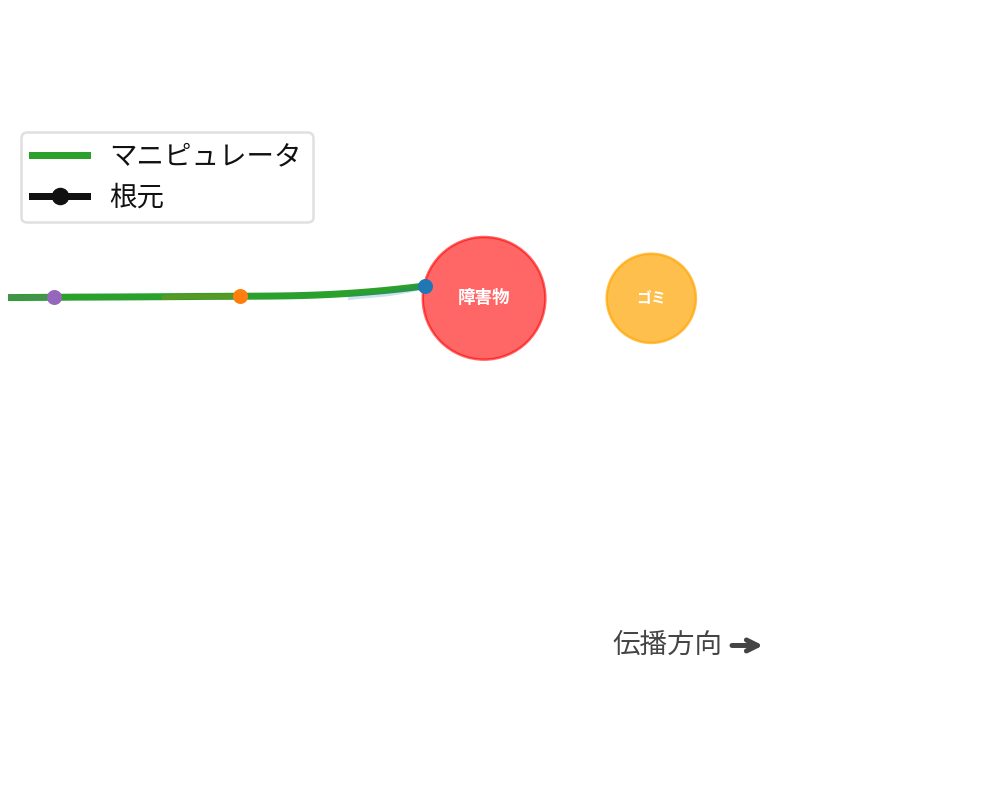
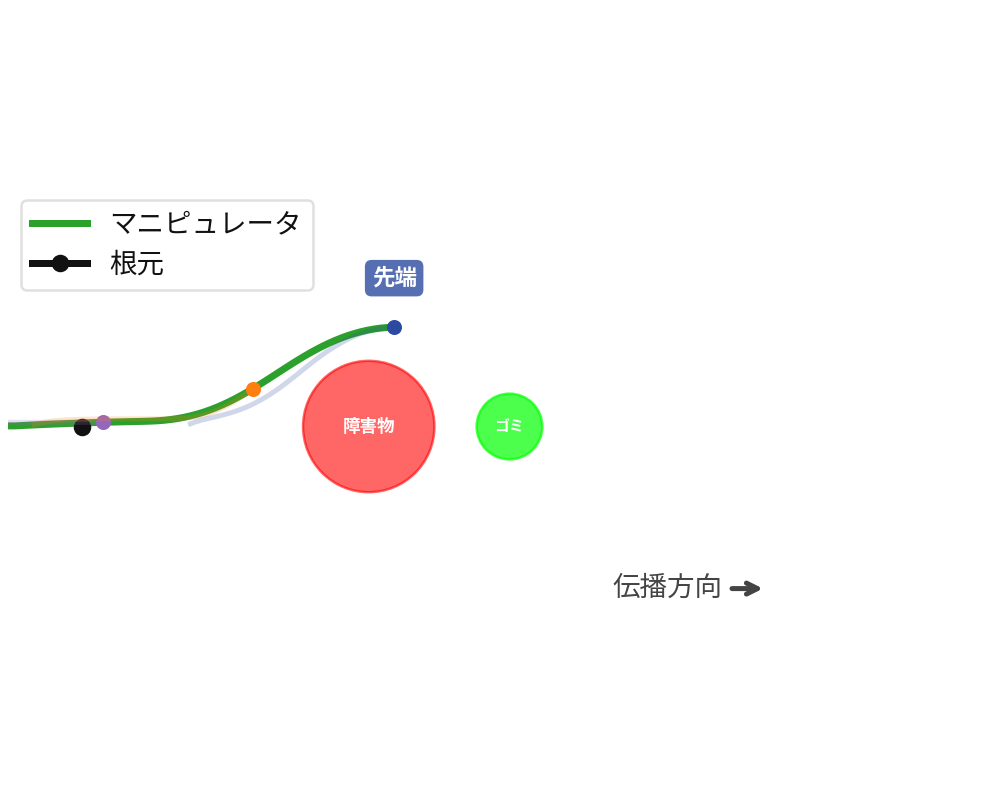
リーダーフォロワーの蛇波動シミュレーションを改善し、GIFアニメーションの先端注釈を追加。パラメータを調整して動作を最適化。

diff --git a/scripts/leader_follower/leader_follower_snake_wave.py b/scripts/leader_follower/leader_follower_snake_wave.py
@@ -34,27 +34,27 @@ class SimParams:
 
     # Leader input: tip bend angle (signed)
     # 蛇みたいな波状にするため、高周波数・小振幅
-    theta_amp: float = 0.2  # [rad] 波の振幅を少し大きく
-    theta_w: float = 2.0 * math.pi * 0.3  # 周波数を下げてより大きな波に
+    theta_amp: float = 0.6  # [rad] 先端の曲率を強くする
+    theta_w: float = 2.0 * math.pi * 0.45  # 高周波数で細かい波を作る
 
     # Propagation (tip -> base)
-    propagation_speed: float = 0.7  # 伝播速度を少し遅く
-    time_smoothing: float = 0.3  # より反応的に
-    space_smoothing: float = 0.08  # 滑らかな蛇のような曲線に
+    propagation_speed: float = 0.5  # 遅く -> 中腹が曲がった状態を保つ
+    time_smoothing: float = 0.25  # より反応的に
+    space_smoothing: float = 0.0  # より小さく -> 各セクションの曲率が大きくなる
 
     # Forward motion (entering from off-screen)
-    forward_speed: float = 0.3  # 前進速度を遅く
+    forward_speed: float = 0.4  # 前進速度
 
     # Obstacle
     obstacle_enabled: bool = True  # 障害物のオンオフ
-    obstacle_x: float = 0.7  # 障害物のx座標
+    obstacle_x: float = 0.9  # 障害物のx座標（より先に配置）
     obstacle_y: float = 0.0  # 障害物のy座標（少し下にズラして回避可能に）
-    obstacle_radius: float = 0.11  # 障害物の半径
+    obstacle_radius: float = 0.14  # 障害物の半径
 
     # Target (garbage)
-    target_x: float = 1.0  # ゴミのx座標（障害物の先）
+    target_x: float = 1.2  # ゴミのx座標（障害物の先）
     target_y: float = 0.0  # ゴミのy座標
-    target_radius: float = 0.08  # ゴミの半径
+    target_radius: float = 0.07  # ゴミの半径
 
     # Rendering
     fps: int = 20
@@ -206,7 +206,7 @@ def simulate(p: SimParams) -> dict[str, np.ndarray]:
         x, y = theta_to_backbone(theta_new, p)
 
         # Apply forward motion offset
-        t_current = (step - 60) * p.dt  # スタート位置をもっと左から（画面外から）
+        t_current = (step - 40) * p.dt
         offset = p.forward_speed * t_current * fwd_dir
         x = x + offset[0]
         y = y + offset[1]
@@ -296,7 +296,7 @@ def save_gif(traj: dict[str, np.ndarray], p: SimParams, out_path: Path) -> None:
     (body_line,) = ax.plot([], [], color="#2ca02c", label=("マニピュレータ" if p.use_japanese_labels else "Manipulator"))
     (base_dot,) = ax.plot([], [], marker="o", color="#111111", ms=6, label=("根元" if p.use_japanese_labels else "Base"))
 
-    palette = ["#111111", "#9467bd", "#ff7f0e", "#1f77b4", "#8c564b"]
+    palette = ["#111111", "#9467bd", "#ff7f0e", "#2c4ba0", "#8c564b"]  # 先端を緑色に変更
     marker_colors = palette[: len(marker_ids)]
     marker_dots = []
     marker_trails = []
@@ -320,6 +320,11 @@ def save_gif(traj: dict[str, np.ndarray], p: SimParams, out_path: Path) -> None:
             fontsize=11,
             color="#444444",
         )
+    
+    # Tip annotation (動的に更新)
+    tip_text = ax.text(0, 0, "先端", ha="center", va="bottom",
+                       fontsize=9, bbox=dict(boxstyle="round,pad=0.3", facecolor="#2c4ba0", alpha=0.8, edgecolor="none"),
+                       color="white", fontweight="bold", zorder=10)
 
     ax.legend(loc="upper left", frameon=True, framealpha=0.9, edgecolor="#dddddd")
 
@@ -368,10 +373,11 @@ def save_gif(traj: dict[str, np.ndarray], p: SimParams, out_path: Path) -> None:
 
     def init():
         body_line.set_data([], [])
+        tip_text.set_visible(False)
         for dot, trail in zip(marker_dots, marker_trails, strict=True):
             dot.set_data([], [])
             trail.set_data([], [])
-        artists = [body_line, base_dot]
+        artists = [body_line, base_dot, tip_text]
         artists.extend(marker_dots)
         artists.extend(marker_trails)
         return tuple(artists)
@@ -379,6 +385,11 @@ def save_gif(traj: dict[str, np.ndarray], p: SimParams, out_path: Path) -> None:
     def update(i: int):
         body_line.set_data(xs[i], ys[i])
         base_dot.set_data([xs[i, 0]], [ys[i, 0]])
+
+        # Update tip text position to follow the tip
+        tip_x, tip_y = xs[i, -1], ys[i, -1]
+        tip_text.set_position((tip_x, tip_y + 0.08))  # 先端の少し上に配置
+        tip_text.set_visible(True)
 
         # Check if target is reached at this frame
         tip_dist = math.sqrt((xs[i, -1] - p.target_x)**2 + (ys[i, -1] - p.target_y)**2)
@@ -393,7 +404,7 @@ def save_gif(traj: dict[str, np.ndarray], p: SimParams, out_path: Path) -> None:
                 marker_xy[trail_start : i + 1, k, 1],
             )
 
-        artists = [body_line, base_dot]
+        artists = [body_line, base_dot, tip_text]
         artists.extend(marker_dots)
         artists.extend(marker_trails)
         return tuple(artists)
@@ -416,6 +427,8 @@ def save_gif(traj: dict[str, np.ndarray], p: SimParams, out_path: Path) -> None:
         if idx <= 0 or idx >= p.n_steps:
             idx = p.n_steps // 2
         body_line.set_data(xs[idx], ys[idx])
+        tip_text.set_position((xs[idx, -1], ys[idx, -1] + 0.08))
+        tip_text.set_visible(True)
         trail_start = max(0, idx + 1 - p.trail_len)
         for k in range(len(marker_ids)):
             marker_dots[k].set_data([marker_xy[idx, k, 0]], [marker_xy[idx, k, 1]])
